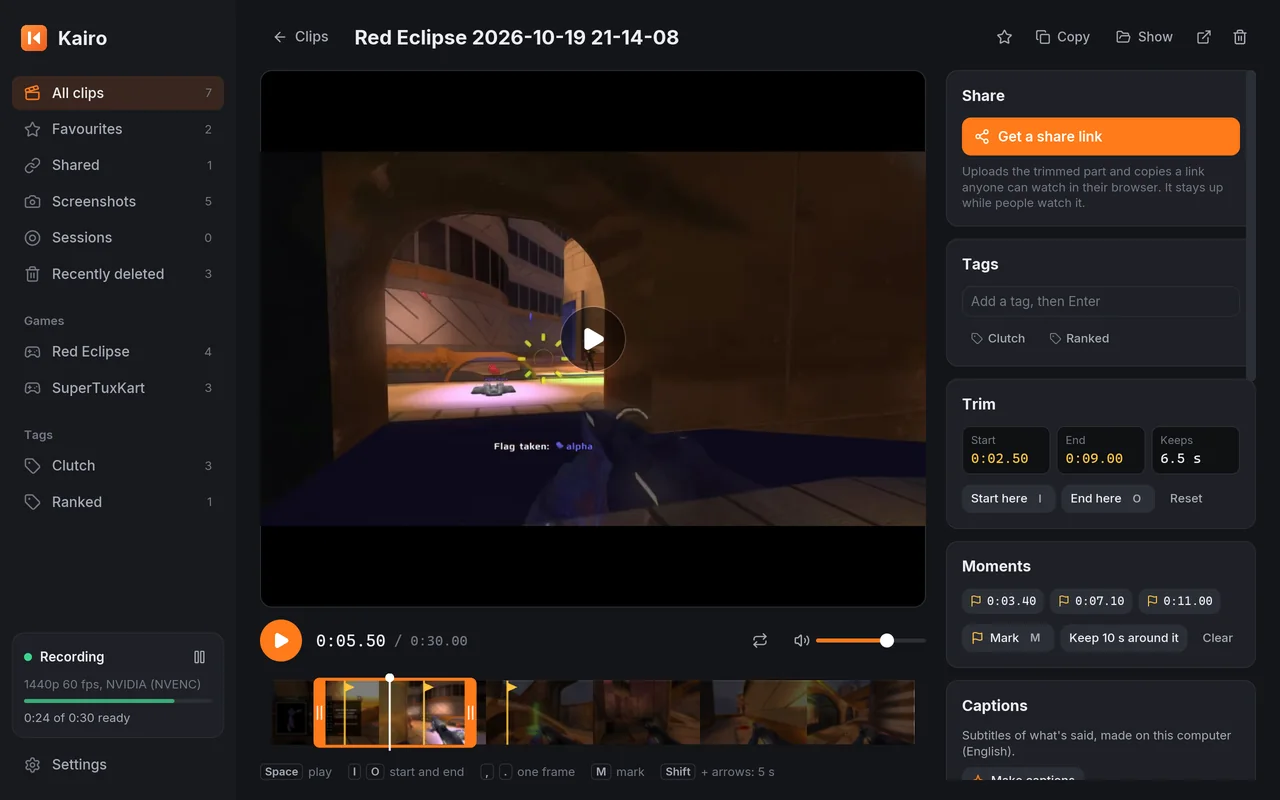
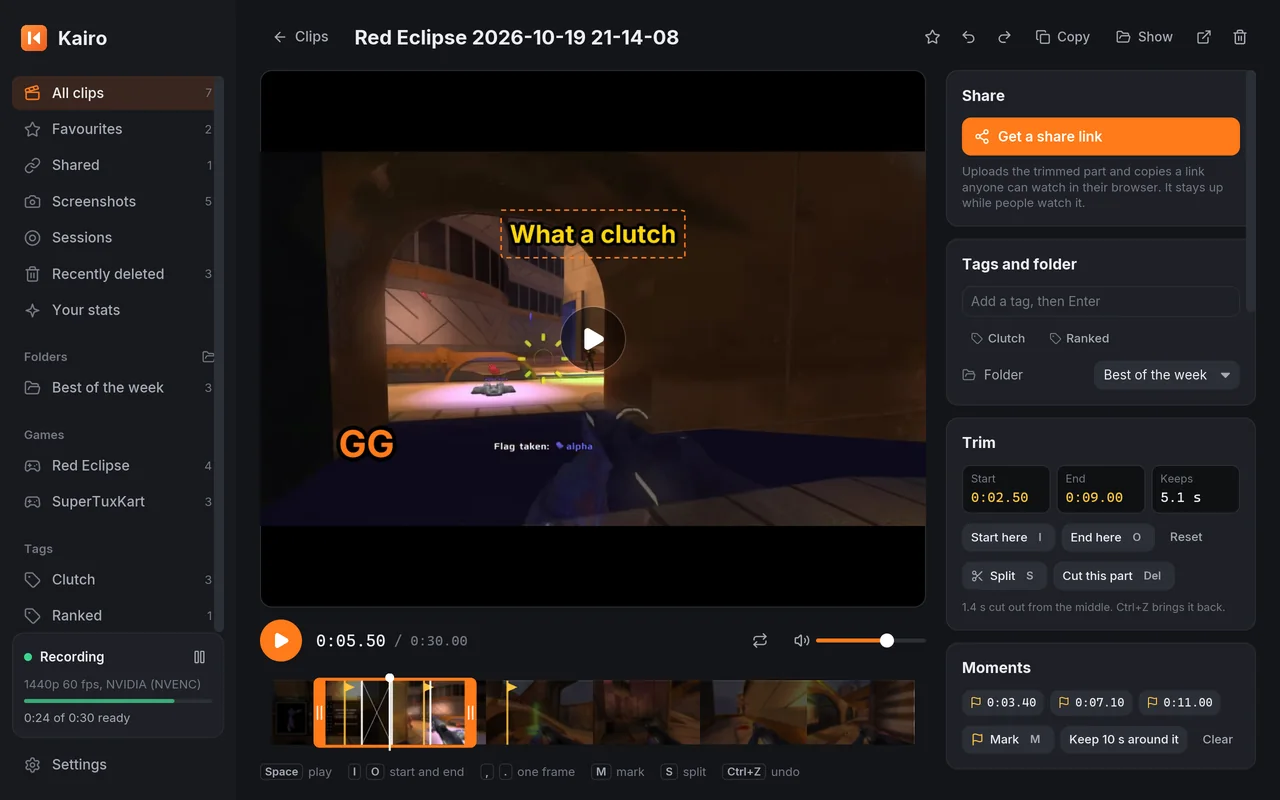
Website: Kairo 0.4.0, with cutting, undo and text in the editor, the webcam, games-only recording and folders

diff --git a/docs/index.html b/docs/index.html
@@ -58,13 +58,13 @@
     </h1>
     <p class="hero-lede">Kairo keeps the last 30 seconds of your game in memory. Press F8 and they’re saved as a clip in about a second. Free and open source for Windows, macOS and Linux.</p>
     <div class="hero-actions">
-      <a class="btn btn-lg" id="hero-download" href="https://github.com/fsiuhgshiqoih32/kairo/releases/download/v0.3.0/kairo-v0.3.0-windows-x64-setup.exe">
+      <a class="btn btn-lg" id="hero-download" href="https://github.com/fsiuhgshiqoih32/kairo/releases/download/v0.4.0/kairo-v0.4.0-windows-x64-setup.exe">
         <svg aria-hidden="true" viewBox="0 0 20 20" width="20" height="20"><path d="M10 3v10m0 0-4-4m4 4 4-4M4 16h12" fill="none" stroke="currentColor" stroke-width="2" stroke-linecap="round" stroke-linejoin="round"/></svg>
         <span id="hero-download-label">Download for Windows</span>
       </a>
       <a class="btn btn-ghost" href="#tour">See the app</a>
     </div>
-    <p class="hero-meta" id="hero-meta">Version <span data-version>0.3.0</span> · 32 MB · Windows 10 and 11 · <a href="#download">macOS and Linux</a></p>
+    <p class="hero-meta" id="hero-meta">Version <span data-version>0.4.0</span> · 32 MB · Windows 10 and 11 · <a href="#download">macOS and Linux</a></p>
   </div>
 
   <div class="hud" id="hud" data-ui>
@@ -208,12 +208,12 @@
       </div>
       <div class="panel" role="tabpanel" id="panel-editor" aria-labelledby="tab-editor" hidden>
         <div class="panel-copy">
-          <h3>Trim it in seconds.</h3>
-          <p>Play with sound, scrub the filmstrip, drag the handles and save an exact copy. Press M to mark a moment.</p>
-          <p class="soft">Change the speed and look, add fades and music, balance game, mic and voice chat, and make square, 4:5 and 9:16 copies for phones.</p>
+          <h3>Cut it in seconds.</h3>
+          <p>Drag the handles to trim, press S to split and Delete to cut the dull part out of the middle. Ctrl+Z undoes anything, and a plain trim saves instantly at full quality.</p>
+          <p class="soft">Put text on it and drag it into place, with a pop, slide or blur as it comes in. Change the speed and look, add fades and music, balance game, mic and voice chat, and make copies for phones.</p>
         </div>
         <figure class="shot" data-ui>
-          <img loading="lazy" src="media/site/editor-1280.webp" srcset="media/site/editor-1280.webp 1280w, media/site/editor-2560.webp 2560w" sizes="(max-width: 1000px) 100vw, 900px" width="1280" height="800" alt="Kairo's editor: a Red Eclipse clip with play controls, a filmstrip with trim handles and moment flags, and panels for sharing, tags, trim, moments and captions">
+          <img loading="lazy" src="media/site/editor-1280.webp" srcset="media/site/editor-1280.webp 1280w, media/site/editor-2560.webp 2560w" sizes="(max-width: 1000px) 100vw, 900px" width="1280" height="800" alt="Kairo's editor: a Red Eclipse clip with the text What a clutch and GG over it, a filmstrip with trim handles, a part cut out and moment flags, and panels for sharing, tags and folder, trim with Split and Cut this part, and moments">
         </figure>
       </div>
       <div class="panel" role="tabpanel" id="panel-share" aria-labelledby="tab-share" hidden>
@@ -302,8 +302,11 @@
       <li><h3>Nothing leaves your PC</h3><p>No account, no ads, no tracking and no watermark. A clip is only uploaded when you ask for a share link.</p></li>
       <li><h3>Save and share, one key</h3><p>Give it a shortcut and one press saves the clip, uploads it and copies the link, ready to paste in a chat.</p></li>
       <li><h3>Your stats</h3><p>Clips kept, play time, storage, your top games, the last two weeks and your streak of days with a clip.</p></li>
-      <li><h3>Mark the moment</h3><p>F10 drops a flag while you play, and the clip that holds it shows the flag on its timeline.</p></li>
       <li><h3>Never miss an update</h3><p>A notice tells you when a new version is out and what’s in it. Each download is checked against its published checksum.</p></li>
+      <li><h3>Text that moves</h3><p>Type a line, drag it where you want it and pick how it arrives: a pop, a slide or a blur, drawn with motion blur.</p></li>
+      <li><h3>Your webcam in the corner</h3><p>Turn it on and your camera goes in a corner of every clip you save, at the size you pick.</p></li>
+      <li><h3>Only while you play</h3><p>Keep a replay only while a game is in front, give each game its own length and quality, and never record the apps you name (Windows).</p></li>
+      <li><h3>Folders and badges</h3><p>Sort clips into folders, and earn 15 achievements as your library grows. Dark, light or match your system.</p></li>
       <li><h3>Scriptable</h3><p>Save, screenshot, share and caption from the command line, with <code>kairo save</code> and friends. Handy on Wayland.</p></li>
     </ul>
   </div>
@@ -313,7 +316,7 @@
   <div class="wrap">
     <div class="get-head">
       <h2 id="get-title" class="h2">Get Kairo.</h2>
-      <p class="lead">Free, for good. Version <span data-version>0.3.0</span><span id="release-date">, released 19 October 2026</span>. ffmpeg is included, so there’s nothing else to install.</p>
+      <p class="lead">Free, for good. Version <span data-version>0.4.0</span><span id="release-date">, released 20 October 2026</span>. ffmpeg is included, so there’s nothing else to install.</p>
     </div>
 
     <div class="get-grid">
@@ -324,11 +327,11 @@
           <button type="button" role="radio" aria-checked="false" data-os="linux" tabindex="-1">Linux</button>
         </div>
         <p class="pick-for" id="pick-for">For Windows 10 and 11, 64‑bit</p>
-        <a class="btn btn-lg btn-block" id="go" href="https://github.com/fsiuhgshiqoih32/kairo/releases/download/v0.3.0/kairo-v0.3.0-windows-x64-setup.exe">
+        <a class="btn btn-lg btn-block" id="go" href="https://github.com/fsiuhgshiqoih32/kairo/releases/download/v0.4.0/kairo-v0.4.0-windows-x64-setup.exe">
           <svg aria-hidden="true" viewBox="0 0 20 20" width="20" height="20"><path d="M10 3v10m0 0-4-4m4 4 4-4M4 16h12" fill="none" stroke="currentColor" stroke-width="2" stroke-linecap="round" stroke-linejoin="round"/></svg>
           <span id="go-label">Download the installer</span>
         </a>
-        <p class="pick-file"><span id="go-file">kairo-v0.3.0-windows-x64-setup.exe</span> · <span id="go-size">32 MB</span></p>
+        <p class="pick-file"><span id="go-file">kairo-v0.4.0-windows-x64-setup.exe</span> · <span id="go-size">32 MB</span></p>
         <p class="pick-note" id="pick-note">Installs for you without administrator rights and uninstalls from Settings › Apps. It isn’t code-signed yet, so Windows may say it protected your PC: choose More info, then Run anyway.</p>
         <div class="phone-note" id="phone-note" hidden>
           <p>Kairo runs on computers. Send yourself this page and open it there.</p>
@@ -339,11 +342,11 @@
       <div class="others">
         <h3>Other downloads</h3>
         <ul class="dl-list">
-          <li><a id="alt-portable" href="https://github.com/fsiuhgshiqoih32/kairo/releases/download/v0.3.0/kairo-v0.3.0-windows-x64-portable.zip"><b>Windows, no installer</b><span>Unzip anywhere and run kairo.exe · <span data-size="portable">16 MB</span></span></a></li>
-          <li><a id="alt-mac" href="https://github.com/fsiuhgshiqoih32/kairo/releases/download/v0.3.0/kairo-v0.3.0-macos-universal.zip"><b>macOS 11 or newer</b><span>Apple silicon and Intel · <span data-size="mac">25 MB</span></span></a></li>
-          <li><a id="alt-linux" href="https://github.com/fsiuhgshiqoih32/kairo/releases/download/v0.3.0/kairo-v0.3.0-linux-x86_64-portable.tar.gz"><b>Linux, x86_64</b><span>X11, or XWayland with a shortcut for <code>kairo save</code> · <span data-size="linux">16 MB</span></span></a></li>
+          <li><a id="alt-portable" href="https://github.com/fsiuhgshiqoih32/kairo/releases/download/v0.4.0/kairo-v0.4.0-windows-x64-portable.zip"><b>Windows, no installer</b><span>Unzip anywhere and run kairo.exe · <span data-size="portable">16 MB</span></span></a></li>
+          <li><a id="alt-mac" href="https://github.com/fsiuhgshiqoih32/kairo/releases/download/v0.4.0/kairo-v0.4.0-macos-universal.zip"><b>macOS 11 or newer</b><span>Apple silicon and Intel · <span data-size="mac">26 MB</span></span></a></li>
+          <li><a id="alt-linux" href="https://github.com/fsiuhgshiqoih32/kairo/releases/download/v0.4.0/kairo-v0.4.0-linux-x86_64-portable.tar.gz"><b>Linux, x86_64</b><span>X11, or XWayland with a shortcut for <code>kairo save</code> · <span data-size="linux">16 MB</span></span></a></li>
         </ul>
-        <p class="others-small">Check your download against <a id="sums" href="https://github.com/fsiuhgshiqoih32/kairo/releases/download/v0.3.0/SHA256SUMS.txt">SHA256SUMS.txt</a>. <a href="https://github.com/fsiuhgshiqoih32/kairo/releases">Release notes and every version</a>. Downloads come from GitHub.</p>
+        <p class="others-small">Check your download against <a id="sums" href="https://github.com/fsiuhgshiqoih32/kairo/releases/download/v0.4.0/SHA256SUMS.txt">SHA256SUMS.txt</a>. <a href="https://github.com/fsiuhgshiqoih32/kairo/releases">Release notes and every version</a>. Downloads come from GitHub.</p>
       </div>
     </div>
   </div>

diff --git a/docs/site.js b/docs/site.js
@@ -10,13 +10,13 @@
   // ---------- Downloads ----------
   const REPO = "fsiuhgshiqoih32/kairo";
   const release = {
-    version: "0.3.0",
+    version: "0.4.0",
     date: null,
     files: {
-      windows: { name: "kairo-v0.3.0-windows-x64-setup.exe", size: 31979762 },
-      portable: { name: "kairo-v0.3.0-windows-x64-portable.zip", size: 15609058 },
-      mac: { name: "kairo-v0.3.0-macos-universal.zip", size: 25437353 },
-      linux: { name: "kairo-v0.3.0-linux-x86_64-portable.tar.gz", size: 15796739 },
+      windows: { name: "kairo-v0.4.0-windows-x64-setup.exe", size: 32235258 },
+      portable: { name: "kairo-v0.4.0-windows-x64-portable.zip", size: 15864554 },
+      mac: { name: "kairo-v0.4.0-macos-universal.zip", size: 25830423 },
+      linux: { name: "kairo-v0.4.0-linux-x86_64-portable.tar.gz", size: 16017793 },
       sums: { name: "SHA256SUMS.txt", size: 0 },
     },
   };
